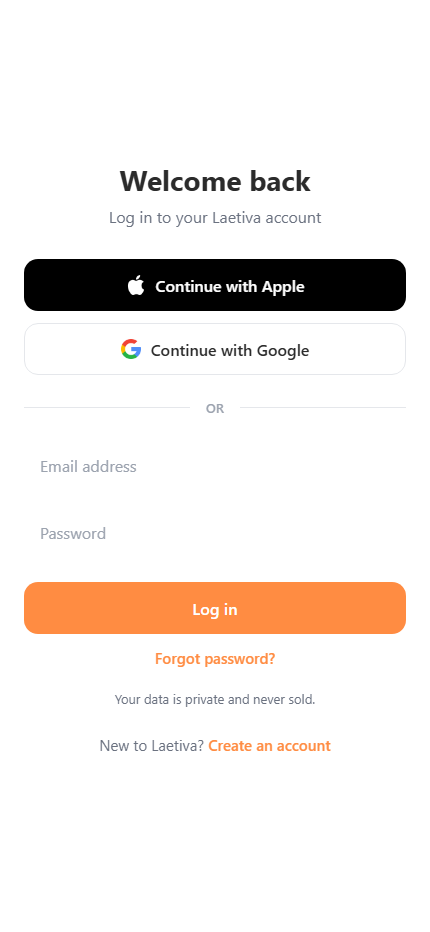
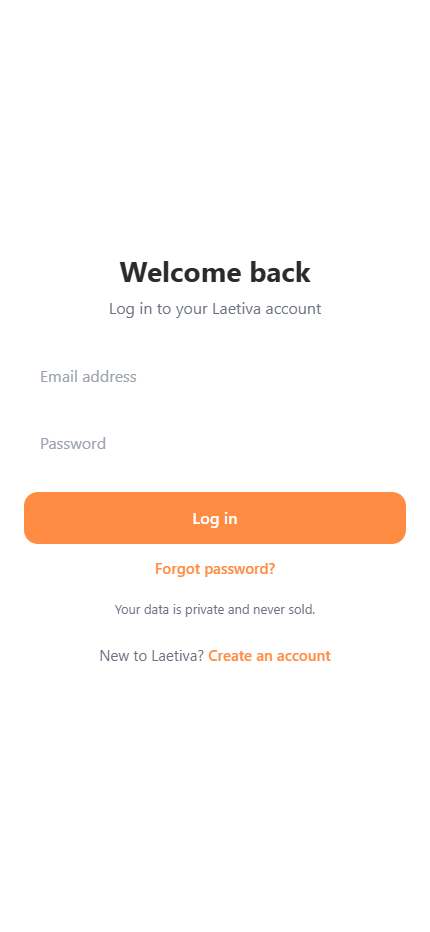
Stop the new-vendor dashboard showing another vendor's demo trading data
Phase 1 acceptance criterion 6 requires a new vendor's dashboard to contain no
mock orders, revenue, customers or badges. It contained all four.

The dashboard imported mockOrders directly and derived pending orders, today's
orders, completed orders, total revenue and today's revenue from it. A vendor
who registered a minute ago opened the app to a trading history belonging to
the demo vendors, including their customers' names and their revenue.

The insight carousel was worse, because those numbers were invented outright
rather than borrowed: newCustomersThisWeek: 3, lowStockCount: 2 and
avgResponseMinutes: 8 were hardcoded at the call site. An account with no
customers was told it had gained three this week.

OrdersContext now scopes its seed to the accounts it was written for, the same
way InboxContext does, and the dashboard reads from that context instead of
importing the mock module. A real Firebase account matches nothing and starts
empty, which is accurate rather than a placeholder: a new vendor genuinely has
no orders. vendor@test.com keeps the demo orders so the populated design is
still reviewable.

The three invented insight values are gone. The generator already guards each
insight behind a presence check, so omitting them means those cards simply do
not render rather than rendering a zero.

Also hides the Apple and Google buttons behind SOCIAL_AUTH_ENABLED. They were
wired to a placeholder that waited 900ms and fabricated a local account, so
[…]

diff --git a/expo/contexts/OrdersContext.tsx b/expo/contexts/OrdersContext.tsx
@@ -1,6 +1,7 @@
 import createContextHook from '@nkzw/create-context-hook';
-import { useState, useCallback, useMemo } from 'react';
+import { useState, useCallback, useMemo, useEffect } from 'react';
 import { mockOrders, type Order, type OrderStatus, type OrderEvent, type OrderSnapshot, type PaymentProof } from '@/mocks/ordersData';
+import { useAuth } from '@/contexts/AuthContext';
 
 const ALLOWED_TRANSITIONS: Record<OrderStatus, OrderStatus[]> = {
   requested: ['accepted', 'rejected', 'cancelled', 'expired'],
@@ -16,8 +17,42 @@ const ALLOWED_TRANSITIONS: Record<OrderStatus, OrderStatus[]> = {
 
 const TERMINAL_STATUSES: OrderStatus[] = ['completed', 'rejected', 'cancelled', 'expired'];
 
+/**
+ * Orders are still seeded demo data rather than Firestore, and those orders all
+ * belong to the built-in demo vendors. Handing them to whoever is signed in
+ * meant a vendor who registered a minute ago opened their dashboard to other
+ * people's orders, other people's customers and revenue they had never earned.
+ *
+ * The seed is therefore scoped to the accounts it was written for. Nothing ever
+ * signs in *as* 'v1' (that id exists only inside the mock data), so the local
+ * test logins are mapped onto it, otherwise the demo orders would be
+ * unreachable for everyone. A real Firebase uid matches nothing and starts
+ * empty, which is both accurate for a new vendor and what the Firestore
+ * listener will produce once orders are wired.
+ */
+const DEMO_ORDER_ACCOUNTS: Record<string, string> = {
+  '2': 'v1', // vendor@test.com
+  v1: 'v1',
+};
+
+function seedOrdersFor(accountId: string | undefined): Order[] {
+  if (!accountId) return [];
+  const demoVendorId = DEMO_ORDER_ACCOUNTS[accountId];
+  return demoVendorId ? mockOrders.filter((o) => o.vendorId === demoVendorId) : [];
+}
+
 export const [OrdersProvider, useOrders] = createContextHook(() => {
-  const [orders, setOrders] = useState<Order[]>(mockOrders);
+  const { user } = useAuth();
+  const accountId = user?.id;
+
+  const [orders, setOrders] = useState<Order[]>(() => seedOrdersFor(accountId));
+
+  // Auth resolves after the first render, and the signed-in account changes
+  // without this provider unmounting, so the seed is re-evaluated on identity
+  // change rather than only at init.
+  useEffect(() => {
+    setOrders(seedOrdersFor(accountId));
+  }, [accountId]);
   const [orderPendingChanges, setOrderPendingChangesState] = useState<Record<string, boolean>>({});
 
   const getOrder = useCallback((id: string): Order | undefined => {

diff --git a/expo/app/login.tsx b/expo/app/login.tsx
@@ -14,6 +14,7 @@ import {
 import { SafeAreaView } from 'react-native-safe-area-context';
 import { useRouter } from 'expo-router';
 import { useAuth } from '@/contexts/AuthContext';
+import { SOCIAL_AUTH_ENABLED } from '@/constants/authProviders';
 import { Image } from 'react-native';
 
 function isEmail(value: string): boolean {
@@ -136,6 +137,13 @@ export default function LoginScreen() {
               <Text style={styles.subtitle}>Log in to your the platform account</Text>
             </View>
 
+            {/* Hidden until the providers are actually implemented, see
+                constants/authProviders.ts. These were wired to a placeholder
+                that faked a sign-in, so they are gated rather than deleted:
+                the markup is correct and returns as-is once the real
+                credentials flow is in place. */}
+            {SOCIAL_AUTH_ENABLED ? (
+              <>
             <TouchableOpacity
               style={styles.appleButton}
               activeOpacity={0.8}
@@ -175,6 +183,8 @@ export default function LoginScreen() {
               <Text style={styles.dividerText}>OR</Text>
               <View style={styles.dividerLine} />
             </View>
+              </>
+            ) : null}
 
             <View style={styles.form}>
               <View style={styles.inputSection}>

diff --git a/expo/constants/authProviders.ts b/expo/constants/authProviders.ts
@@ -1,0 +1,22 @@
+/**
+ * Whether Apple and Google sign-in are shown.
+ *
+ * Off until the providers are really implemented. The buttons existed and were
+ * wired to a placeholder that waited 900ms and fabricated a local account, so
+ * anyone tapping them appeared to sign in while no Firebase user was created.
+ * The client's instruction was that they must not reach production in that
+ * state, and hiding them is better than leaving a control that lies about what
+ * it did.
+ *
+ * Turning this back on requires, in order:
+ *   1. Google and Apple providers enabled in the Firebase console
+ *   2. OAuth client IDs for iOS, Android and web, and an Apple Service ID + key
+ *   3. socialLogin() in AuthContext replaced with a real signInWithCredential
+ *   4. account-linking handling for an email that already has a password login
+ *
+ * The backend needs nothing: onUserCreate fires for any provider and reads only
+ * email, phoneNumber, displayName and photoURL, each with a null fallback, so a
+ * Google or Apple user gets the same users/{uid} document and default claims as
+ * an email/password one.
+ */
+export const SOCIAL_AUTH_ENABLED = false;
